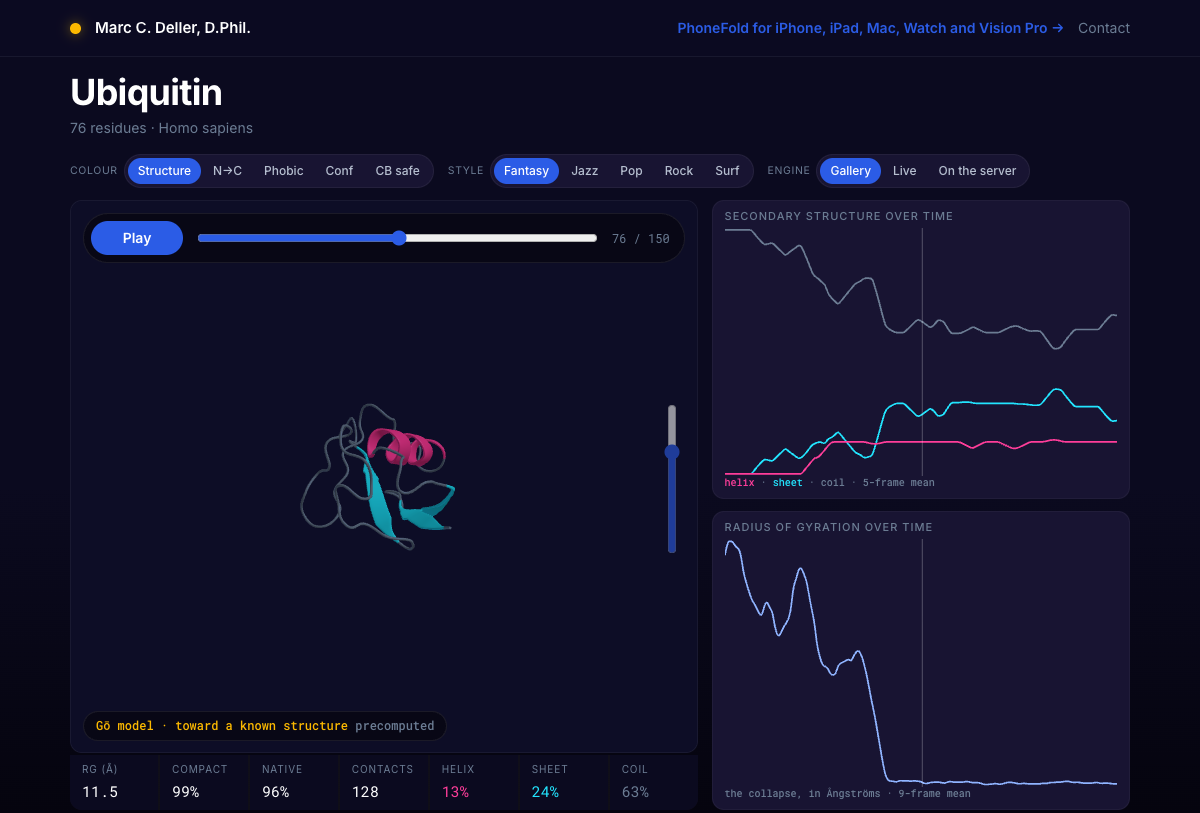
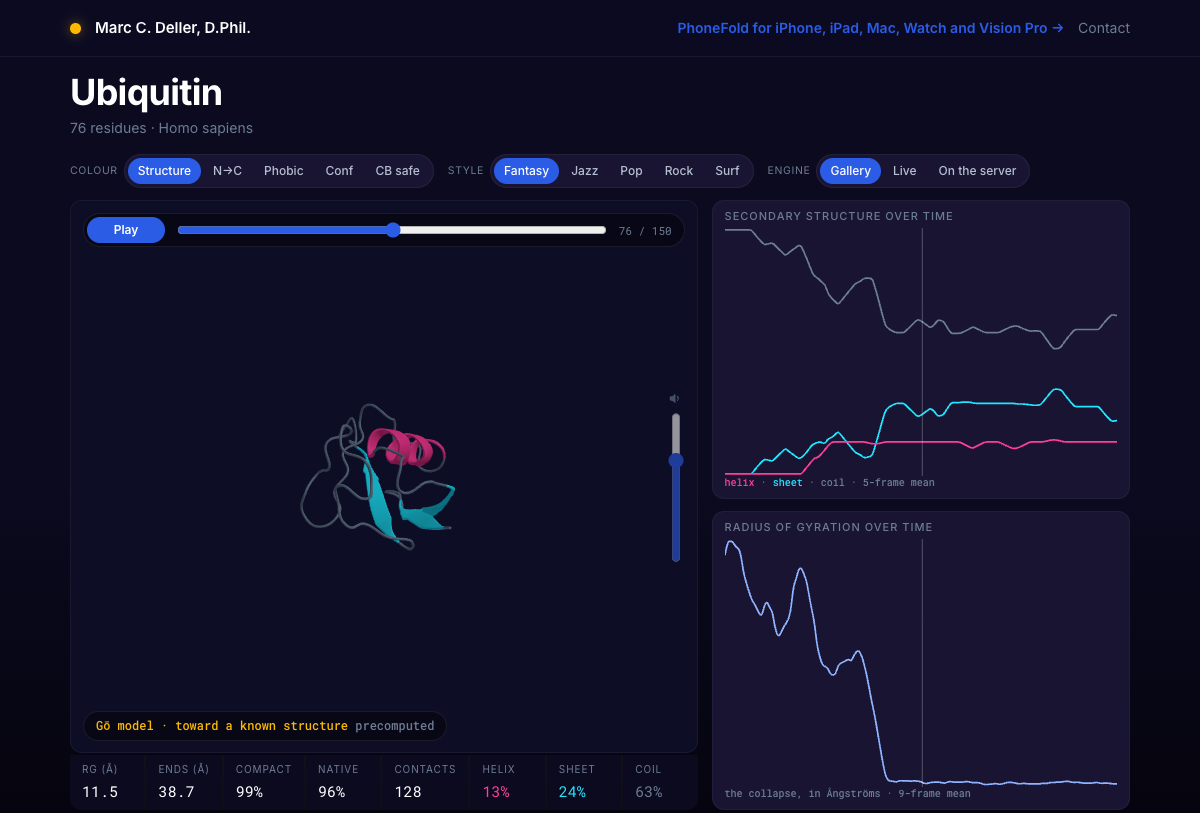
Match the Play panel to the controls, and fix the charts on a phone
Four of Marc's, and a machine fault found on the way.

The Play panel is 34px and 12px, the same as a COLOUR/STYLE/ENGINE group, and
the gate compares their MEASURED boxes rather than their declarations: the two
are built from different padding and font stacks and only agree by arithmetic.
Play keeps weight 600 against the buttons' 500, because it is the one control on
the page you are meant to press first.

The volume gets a speaker above it and the dimming moves from the input to the
pair, so the mark and the slider cannot be at different strengths.

The charts were never hidden on a phone. A chart canvas has flex-basis 0 with
min-height 0 - deliberately, so it cannot feed its own height back into itself -
and below 900px the charts leave the stage's row and with it the height they
were flexing into. Both drew a title and a legend with a hairline between them.
They have a row height of their own down there now, and the gate measures the
canvas rather than the chart, because the chart was always present.

The eighth readout is the end-to-end distance, which is why there are eight: an
auto-fit grid gave three, three and one on a phone, and a row with a single
figure in it reads as something having gone wrong. It is also the measure that
says what Rg does not, since a chain can compact while its termini stay apart.
Computed in the browser from the frame's own coordinates and the stage's ruler,
so it needed no change to the artefact and no re-bake.
[…]

diff --git a/static/buttfold.css b/static/buttfold.css
@@ -247,11 +247,18 @@ a:hover { color: var(--bf-cyan); text-decoration: underline; }
   overflow: hidden;
 }
 /* One row beside the stage, always. Two rows cost 57 px and put the transport back below
-   the fold, so the labels are short enough to fit six columns in a 60% one: the units are
+   the fold, so the labels are short enough to fit eight columns in a 60% one: the units are
    in the label and the values speak for themselves. */
 @media (min-width: 901px) {
-  .readouts { grid-template-columns: repeat(7, 1fr); }
-  .readout .k { font-size: 9.5px; letter-spacing: 0.06em; white-space: nowrap; }
+  .readouts { grid-template-columns: repeat(8, 1fr); }
+  .readout { padding: 7px 8px; }
+  .readout .k { font-size: 9.5px; letter-spacing: 0.04em; white-space: nowrap; }
+}
+/* Four by two on a phone, which is why there are eight of them rather than seven: an
+   `auto-fit` grid gave three, three and one, and a row with a single figure in it reads as
+   something having gone wrong rather than as a layout. */
+@media (max-width: 900px) {
+  .readouts { grid-template-columns: repeat(4, 1fr); }
 }
 .readout { background: var(--bf-ground); padding: 7px 12px; }
 .readout .k {
@@ -273,10 +280,22 @@ a:hover { color: var(--bf-cyan); text-decoration: underline; }
   display: grid; grid-template-rows: 1fr 1fr; gap: 12px; margin: 0;
   flex: 1 1 auto; min-height: 0;
 }
+/* Below 900 px the charts leave the stage's row, and with it the height they were flexing
+   into. A canvas's flex basis is 0 with `min-height: 0` - deliberately, so it cannot feed
+   its own height back into itself - so in an auto-height row it collapsed to nothing and
+   both charts rendered as a title and a legend with a hairline between them. They need a
+   row height of their own down here, which is the whole fix. */
 @media (max-width: 900px) {
-  .charts { grid-template-rows: none; grid-template-columns: 1fr 1fr; margin: 14px 0 0; }
+  .charts {
+    grid-template-rows: none; grid-template-columns: 1fr 1fr;
+    margin: 14px 0 0; flex: none;
+  }
+  .chart { height: 168px; }
 }
-@media (max-width: 620px) { .charts { grid-template-columns: 1fr; } }
+@media (max-width: 620px) {
+  .charts { grid-template-columns: 1fr; }
+  .chart { height: 150px; }
+}
 .chart {
   background: var(--bf-ground-raised); border-radius: var(--bf-radius);
   padding: 10px 12px 8px; border: 1px solid rgba(255, 255, 255, 0.04);
@@ -302,10 +321,14 @@ a:hover { color: var(--bf-cyan); text-decoration: underline; }
    that only ever act on the viewer outside it. The stage's own pointer handlers are on the
    canvas, not on this wrapper, so a drag on a slider cannot also orbit the protein. */
 
+/* Sized to match a `.segmented` group exactly, on Marc's instruction: 3px of padding
+   around a 12px/1 control with 7px of its own, plus a 1px border, is 34px in both. The
+   numbers are written here rather than shared through a variable because the two are read
+   together on screen and a gate compares their measured heights. */
 .stage-transport {
   position: absolute; z-index: 2; left: 12px; right: 12px; top: 12px;
-  display: flex; align-items: center; gap: 12px;
-  padding: 7px 14px 7px 7px;
+  display: flex; align-items: center; gap: 10px;
+  padding: 3px 12px 3px 3px;
   background: rgba(5, 4, 14, 0.72);
   border: 1px solid rgba(255, 255, 255, 0.08);
   border-radius: var(--bf-radius-pill);
@@ -314,15 +337,17 @@ a:hover { color: var(--bf-cyan); text-decoration: underline; }
 .play {
   appearance: none; border: 0; cursor: pointer;
   background: var(--bf-action); color: #fff;
-  font: 600 14px/1 var(--bf-sans);
-  padding: 10px 20px; border-radius: var(--bf-radius-pill);
-  min-width: 92px; flex: none;
+  /* 600 rather than the segmented buttons' 500: same size, but this is the one control on
+     the page you are meant to press first. */
+  font: 600 12px/1 var(--bf-sans);
+  padding: 7px 16px; border-radius: var(--bf-radius-pill);
+  min-width: 78px; flex: none;
 }
 .play:hover { filter: brightness(1.12); }
 .play:active { filter: brightness(0.94); }
 .seek { flex: 1 1 auto; min-width: 60px; accent-color: var(--bf-action); }
 .frame-count {
-  font-family: var(--bf-mono); font-size: 12px; color: var(--bf-text-2);
+  font-family: var(--bf-mono); font-size: 11px; color: var(--bf-text-2);
   font-variant-numeric: tabular-nums; flex: none; white-space: nowrap;
 }
 
@@ -333,22 +358,26 @@ a:hover { color: var(--bf-cyan); text-decoration: underline; }
    declared because either alone leaves the control horizontal in one of the two engines,
    and a horizontal slider pinned to the right edge of the stage is 20 px wide and unusable
    rather than obviously broken. tests/stage_screenshot.mjs measures the box. */
-.volume {
-  position: absolute; z-index: 2; right: 14px; top: 50%;
+.stage-volume {
+  position: absolute; z-index: 2; right: 12px; top: 50%;
   transform: translateY(-50%);
+  display: flex; flex-direction: column; align-items: center; gap: 7px;
+  color: var(--bf-text-2);
+  /* Dimmed to chrome and up to full strength under the pointer. It sits on the pair rather
+     than on the input, so the mark and the slider cannot be at different strengths, and
+     `focus-within` covers reaching it by keyboard. */
+  opacity: 0.6; transition: opacity 0.15s ease;
+}
+.stage-volume:hover, .stage-volume:focus-within { opacity: 1; }
+.volume-icon { display: block; flex: none; }
+
+.volume {
   writing-mode: vertical-lr; direction: rtl;
   appearance: slider-vertical; -webkit-appearance: slider-vertical;
   width: 18px; height: clamp(90px, 22vh, 150px);
   accent-color: var(--bf-action);
-  cursor: pointer;
-  /* `accent-color` paints the filled half and leaves the empty half to the browser, which
-     on a dark stage is a bright white bar. There is no way to reach that track without
-     `appearance: none`, which would take the vertical orientation with it, so the whole
-     control is dimmed to chrome and comes up to full strength under the pointer. Same
-     treatment the old "drag to orbit" hint had. */
-  opacity: 0.6; transition: opacity 0.15s ease;
+  cursor: pointer; margin: 0;
 }
-.volume:hover, .volume:focus-visible { opacity: 1; }
 
 .audio-note { margin: 4px 0 0; font-size: 13px; color: var(--bf-magenta); }
 .audio-note:empty { display: none; }

diff --git a/templates/index.html b/templates/index.html
@@ -115,10 +115,20 @@
       <input type="range" class="seek" id="seek" min="0" max="0" value="0" aria-label="Seek">
       <span class="frame-count" id="frame-count">&mdash;</span>
     </div>
-    <!-- Vertical, on the inside right, unlabelled: a speaker is what a vertical slider on
-         a player is, and the word cost a row of its own beside the seek bar. -->
-    <input type="range" class="volume" id="volume" min="0" max="100" value="70"
-           aria-label="Volume" title="Volume">
+    <!-- Vertical, on the inside right. A speaker rather than the word "Volume": the icon
+         says the same thing in 14 px and does not need a row of its own. `aria-hidden` on
+         the mark because the input beside it already carries the label. -->
+    <div class="stage-volume">
+      <svg class="volume-icon" viewBox="0 0 16 16" width="14" height="14"
+           aria-hidden="true" focusable="false">
+        <path fill="currentColor"
+              d="M6.6 2.9 3.7 5.5H1.6a.6.6 0 0 0-.6.6v3.8a.6.6 0 0 0 .6.6h2.1l2.9 2.6a.5.5 0 0 0 .85-.38V3.28a.5.5 0 0 0-.85-.38z"/>
+        <path fill="none" stroke="currentColor" stroke-width="1.4" stroke-linecap="round"
+              d="M9.7 5.8a3.1 3.1 0 0 1 0 4.4"/>
+      </svg>
+      <input type="range" class="volume" id="volume" min="0" max="100" value="70"
+             aria-label="Volume" title="Volume">
+    </div>
     <div class="stage-badge">
       <span class="engine" id="badge-engine">G&#333; model &middot; toward a known structure</span>
       <span class="where" id="badge-where">precomputed</span>
@@ -126,8 +136,15 @@
     </div>
   </div>
 
+  <!-- Eight, so one desktop row is also a 4x2 grid on a phone. -->
   <div class="readouts">
     <div class="readout"><span class="k">Rg (&#197;)</span><span class="v" id="r-rg">&mdash;</span></div>
+    <!-- The other standard measure of a chain's size, and the one that says something Rg
+         does not: a chain can compact without its termini coming together. Computed in the
+         browser from the frame's own coordinates and the stage's ruler, so it needed no
+         change to the artefact and no re-bake of the gallery. -->
+    <div class="readout" title="Distance between the first and last alpha carbon">
+      <span class="k">Ends (&#197;)</span><span class="v" id="r-ends">&mdash;</span></div>
     <!-- Compaction: 0 at the denatured radius of gyration for a chain this length and 1 at
          the native one, both from measured scaling laws. Normalised by length, so it says
          how folded this protein is rather than how big it is. -->

diff --git a/static/js/player.js b/static/js/player.js
@@ -608,6 +608,13 @@ class Player {
       : (this.contactsSoFar ?? 0) + frame.newContacts.length;
 
     $('r-rg').textContent = frame.rg.toFixed(1);
+    // The other standard measure of a chain's size, and the one that says something the
+    // radius of gyration does not: a chain can compact while its termini stay apart, which
+    // is what a two-domain collapse looks like on the way in. Computed here from the frame's
+    // own quantised coordinates and the stage's ruler rather than baked into the artefact,
+    // so it needed no re-bake of the gallery and it is the same arithmetic for a streamed
+    // frame as for a stored one.
+    $('r-ends').textContent = endToEnd(frame.points, this.stage.angstromsPerUnit).toFixed(1);
     // 0 at the denatured radius of gyration for a chain this length and 1 at the native
     // one, both from measured scaling laws. The same function the sonifier drives its
     // accelerando from, so the number on screen and the tempo cannot disagree.
@@ -868,6 +875,21 @@ function smoothed(values, window) {
  * the standard way to round a polyline without it departing from the data: the curve passes
  * through every midpoint and is pulled toward every sample. Straight `lineTo` segments left
  * visible corners at 150 points across 400 pixels. */
+/** Distance between the first and last alpha carbon, in Angstroms.
+ *
+ * `points` are quantised units, which is what everything downstream of the frame builder
+ * carries, so the stage's ruler converts back. A frame drawn against the wrong ruler would
+ * show a wrong distance rather than a wrong size, which is exactly why the ruler now travels
+ * with a streamed frame instead of being read off the previously loaded artefact. */
+export function endToEnd(points, angstromsPerUnit) {
+  const last = points.length - 3;
+  if (last < 3 || !(angstromsPerUnit > 0)) return 0;
+  const dx = points[last] - points[0];
+  const dy = points[last + 1] - points[1];
+  const dz = points[last + 2] - points[2];
+  return Math.sqrt(dx * dx + dy * dy + dz * dz) * angstromsPerUnit;
+}
+
 function polyline(ctx, values, w, h, low, high, colour, window = 1) {
   const series = window > 1 ? smoothed(values, window) : values;
   if (series.length < 2) return;

diff --git a/STATE.md b/STATE.md
@@ -271,6 +271,19 @@ Marc's, 2026-09-01, after seeing it live. He will guide the first item.
       same specificity, three hundred lines above the rule it meant to override, so a phone
       was using the desktop calculation - and the subtrahend in that calculation has now
       been five pixels short twice, so the gate measures where the readouts actually end.
+- [x] **The Play panel matches the control panel** at 34 px and 12 px in both, compared as
+      measured boxes rather than as matching declarations; the volume carries a speaker mark
+      above it; and there is an eighth readout, the end-to-end distance, so one desktop row
+      is also a 4x2 grid on a phone. The charts were never hidden on a phone: a canvas
+      flexes into its row and off the stage's row there was no row height to flex into, so
+      both drew a title and a legend with a hairline between them.
+- [!] **This Mac's headless Chrome has no audio clock**, as of 2026-09-01. A bare
+      `AudioContext` with no page of ours loaded reports state "running" and advances 0.005 s
+      in 1.5 s, which is one render quantum: the render thread is created and never driven.
+      It is not ButtFold - the same gate fails identically against the previously deployed
+      build - so `tests/audio_smoke.mjs` now probes for it and skips only the clock
+      assertions, naming the cause. The score, the scheduling and the transport are still
+      checked. **The sonifier is unverified on this machine until that clears.**
 - [ ] The two P0-2 browser rows, deferred by Marc: Safari's protein G time and mobile Safari.
 - [ ] Genie 2 gallery entries: 2 to 4 backbones baked on the Mac, generative labels on the
       card and the stage.
